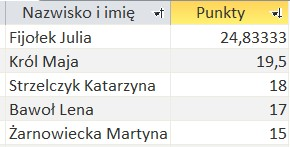
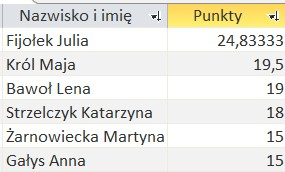
1f final

diff --git a/index.html b/index.html
@@ -88,8 +88,8 @@
  <h4 class="mb-4">Najnowsze informacje:</h4>
 
  <h5 class="mb-4">
-<span style="color: red">22.05 (Poniedziałek) 1F Poprawa sprawdzianu</span><br>
-<span style="color: red">23.05 (Wtorek) 2F Sprawdzian - Geometria trójkąta</span><br>
+<span style="color: red">05.06 (Poniedziałek) 2F Kartkówka bieżąca - ułamki algebraiczne</span><br>
+<span style="color: red">12.06 (Poniedziałek) 1F Poprawa sprawdzianu</span><br>
 <span style="color: red">14.06 (Środa) 2F/1F - Zaliczenie na wyższą ocenę, TEST zaliczeniowy na 2</span><br>
 </h5>
         

diff --git a/matematyka.html b/matematyka.html
@@ -101,7 +101,7 @@
  </h5>
  </p>
 
-	<h4 class="mb-4">Liderzy sprawdzianów 1F (TOP 5)</h4>
+	<h4 class="mb-4">Liderzy sprawdzianów 1F (TOP 5) Tabela końcowa</h4>
        <p> <img src="images/1F.jpg" alt="TEST"></p>
         <h4 class="mb-4">Liderzy sprawdzianów 2F (TOP 5) </h4>
       <p> <img src="images/2F.jpg" alt="TEST"></p>
